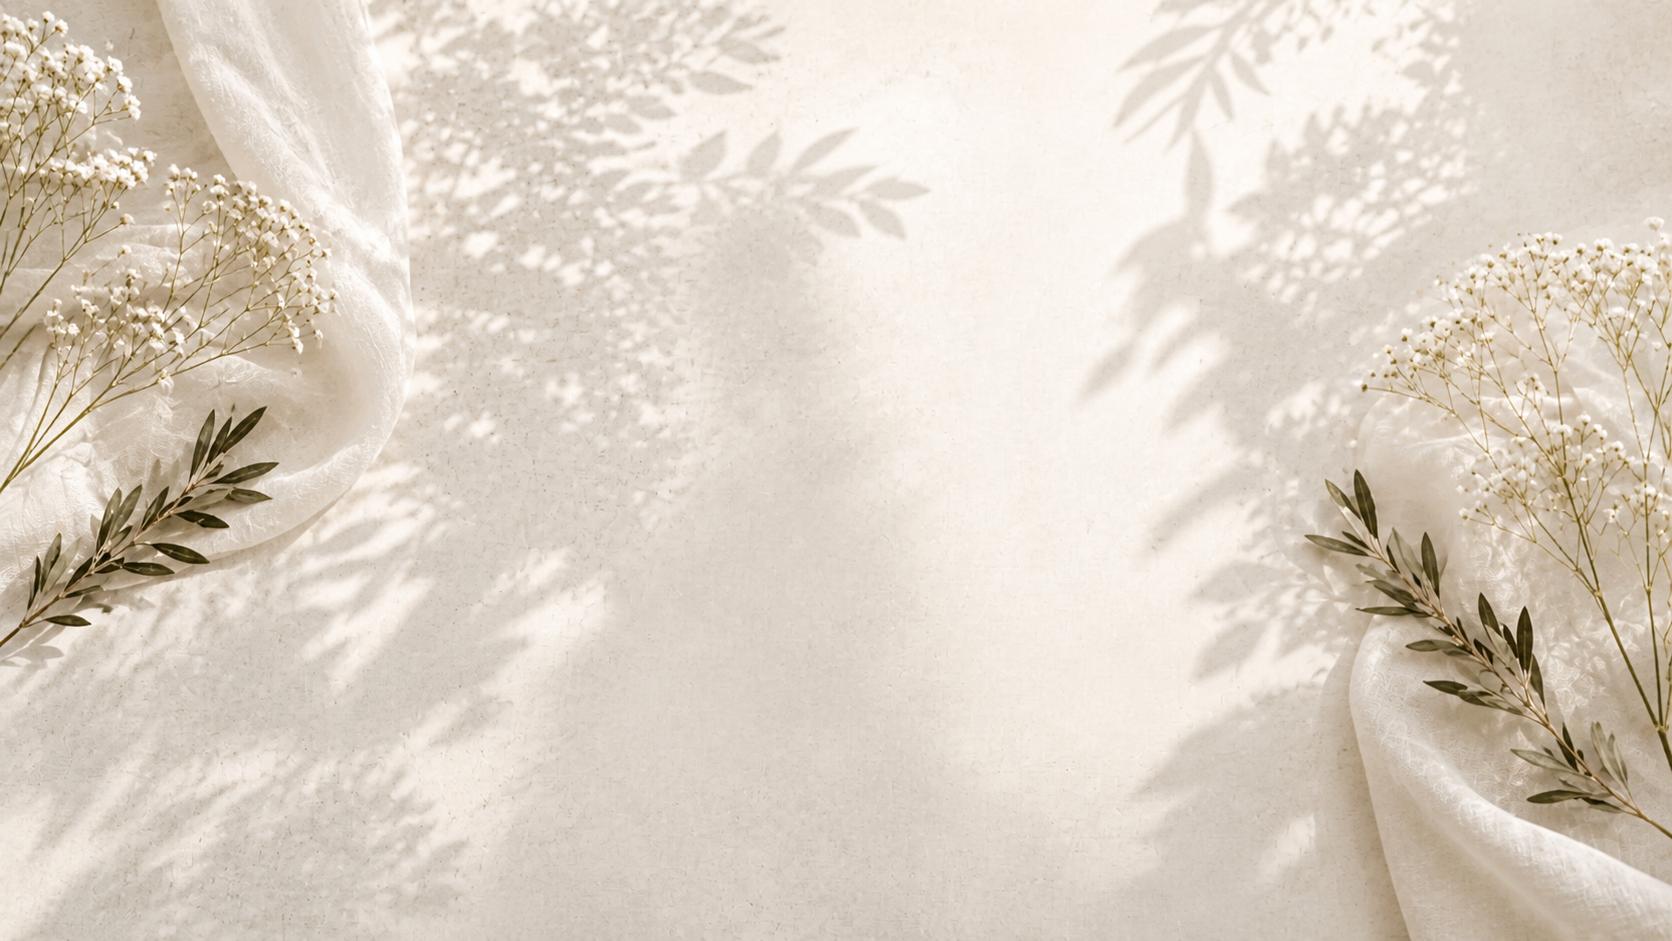
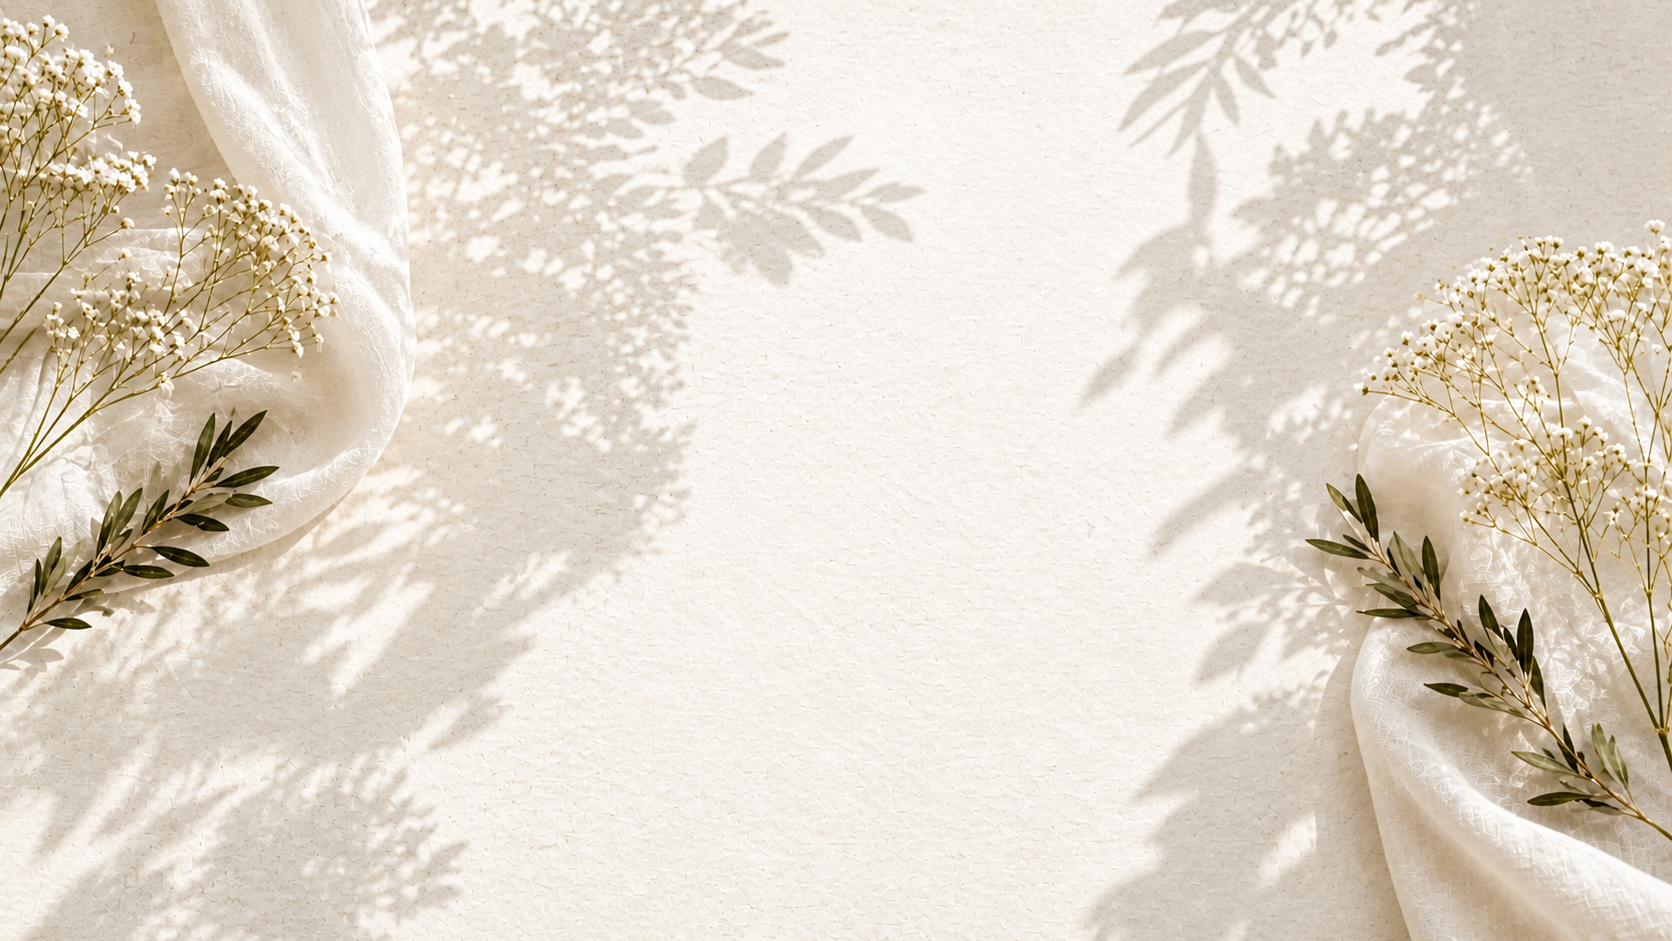
Sharpen opening invitation background

diff --git a/green-sage-wedding-invite/index.html b/green-sage-wedding-invite/index.html
@@ -17,7 +17,7 @@
   <link rel="preload" href="invitation-assets/wax-seal-blank-optimized.png" as="image">
   <link rel="preload" href="invitation-assets/opening-background-ivory-silk-4k.png" as="image" fetchpriority="high">
   <title>Green Sage – Wedding Invite — Alexandra &amp; Gabriel</title>
-  <link rel="stylesheet" href="styles.css?v=20260802-invitation-handoff">
+  <link rel="stylesheet" href="styles.css?v=20260813-sharp-opening">
 </head>
 <body>
   <main class="page">

diff --git a/green-sage-wedding-invite/invitation.html b/green-sage-wedding-invite/invitation.html
@@ -14,7 +14,7 @@
   <link rel="icon" href="data:,">
   <link rel="preload" href="invitation-assets/opening-background-ivory-silk-4k.png" as="image">
   <title>Alexandra &amp; Gabriel — Wedding Invitation</title>
-  <link rel="stylesheet" href="styles.css?v=20260804-editor-foundation">
+  <link rel="stylesheet" href="styles.css?v=20260813-sharp-opening">
 </head>
 <body>
   <main class="page">

diff --git a/green-sage-wedding-invite/styles.css b/green-sage-wedding-invite/styles.css
@@ -1315,8 +1315,6 @@
       background-repeat: no-repeat;
       background-size: cover;
       box-shadow: inset 0 -1px 0 rgba(255,255,255,.44);
-      -webkit-backdrop-filter: blur(2px) saturate(.88);
-      backdrop-filter: blur(2px) saturate(.88);
     }
 
     .portrait-section {
